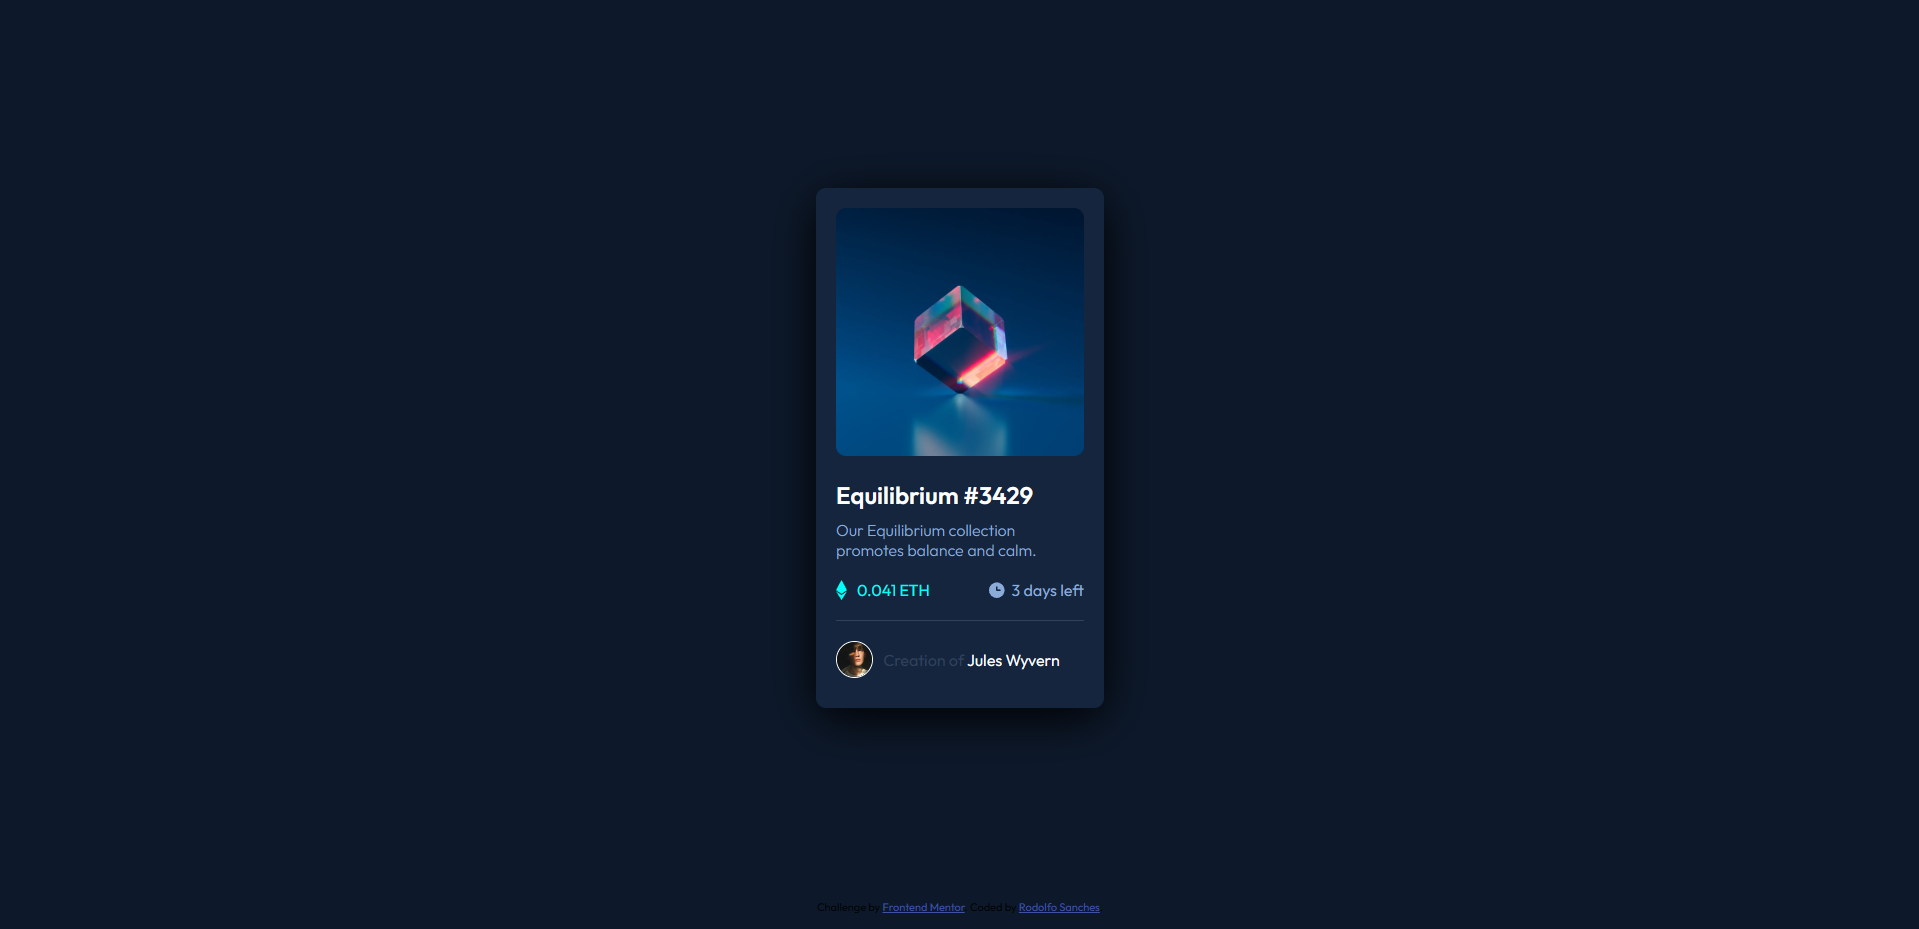
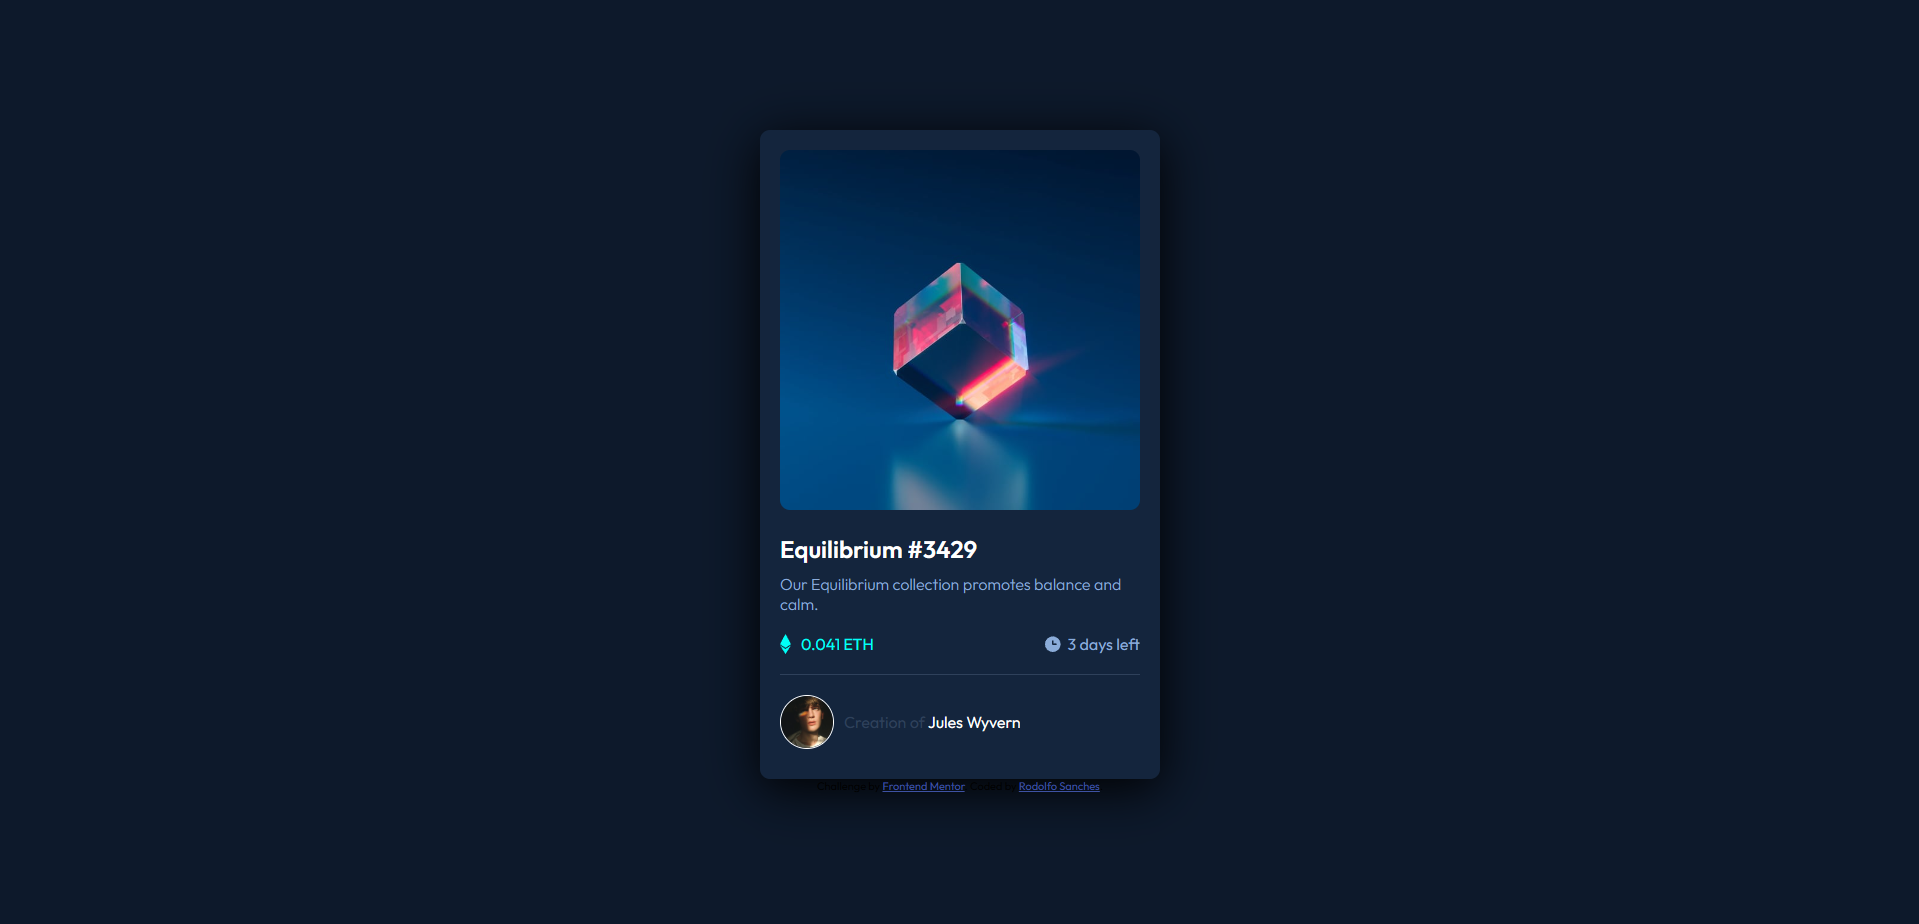
new code

Changed region(s): [[0.3997, 0.1515, 0.6149, 0.8788], [0.5227, 0.9697, 0.5842, 1.0], [0.4612, 0.9697, 0.4919, 1.0]]

diff --git a/css/style.css b/css/style.css
@@ -7,12 +7,15 @@
 
 body {
     background-color: hsl(217, 54%, 11%);
+    display: flex;
+    align-items: center;
+    justify-content: center;
+    min-height: 100vh;
 }
 
 .container {
     background-color: hsl(216, 50%, 16%);
-    width: 15%;
-    margin: 10% auto;
+    max-width: 400px;
     text-align: center;
     box-sizing: border-box;
     padding: 20px;
@@ -51,6 +54,7 @@ body {
 
 .author:hover span {
     color: hsl(178, 100%, 50%);
+    cursor: pointer;
 }
 
 .equilibrium {
@@ -61,27 +65,9 @@ body {
     font-weight: 300;
 }
 
-.overlay {
-    position: absolute;
-    border-radius: 10px;
-    top: 22.6%;
-    left: 43.6%;
-    width: 246px;
-    height: 247px;
-    background-color: rgba(0, 191, 255, 0.5); /* Cor azul claro com opacidade */
-    opacity: 0; /* Inicialmente transparente */
-    transition: opacity 0.3s ease; /* Transição suave para efeito hover */
-    display: flex;
-    justify-content: center;
-    align-items: center;
-}
-
-.nft-image:hover .overlay {
-    opacity: 1; /* Opacidade máxima no hover */
-  }
-
-.text:hover h2{
+.sub-title:hover{
     color: hsl(178, 100%, 50%);
+    cursor: pointer;
 }
 
 .line {

diff --git a/index.html b/index.html
@@ -26,12 +26,9 @@
     <div class="container">
       <div class="nft-image">
         <img class="equilibrium" src="./images/image-equilibrium.jpg" alt="image-equilibrium">
-        <div class="overlay">
-          <img src="./images/icon-view.svg" alt="icon-view">
-        </div>
       </div>
       <div class="text">
-        <h2>Equilibrium #3429</h2>
+        <h2 class="sub-title">Equilibrium #3429</h2>
         <p class="equilibrium">Our Equilibrium collection promotes balance and calm.</p>
       
         <div class="bottom-info">
